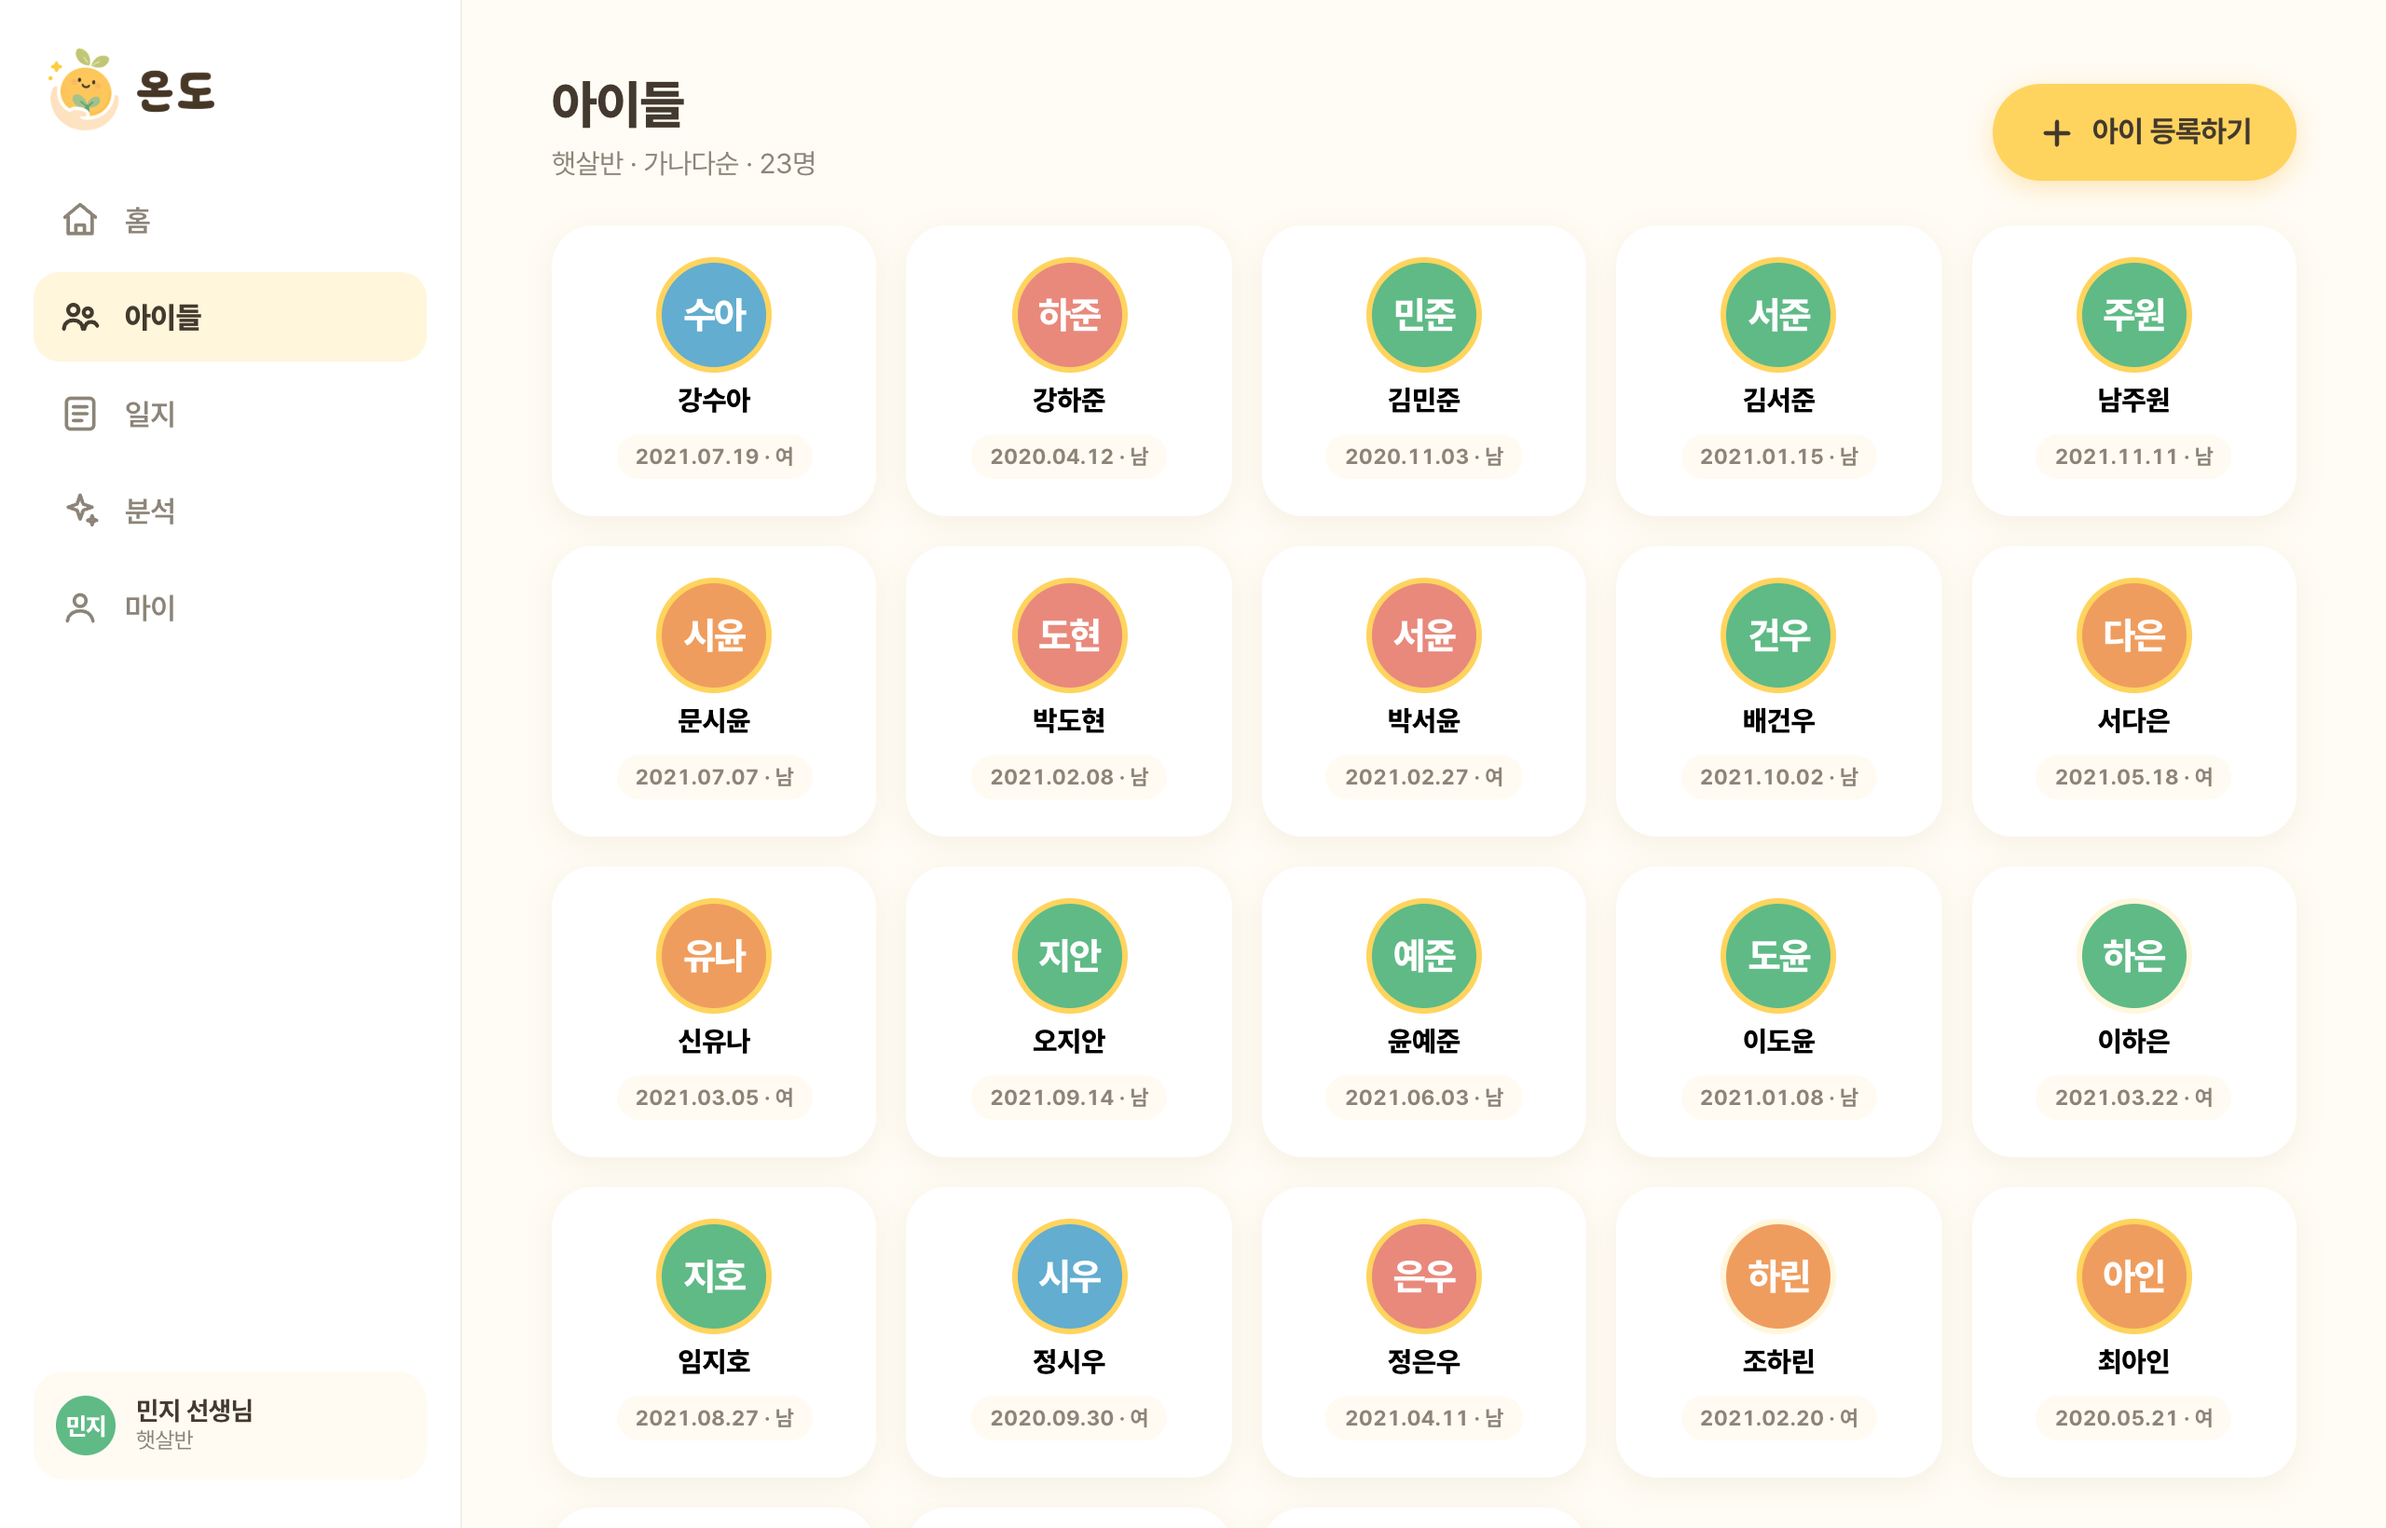
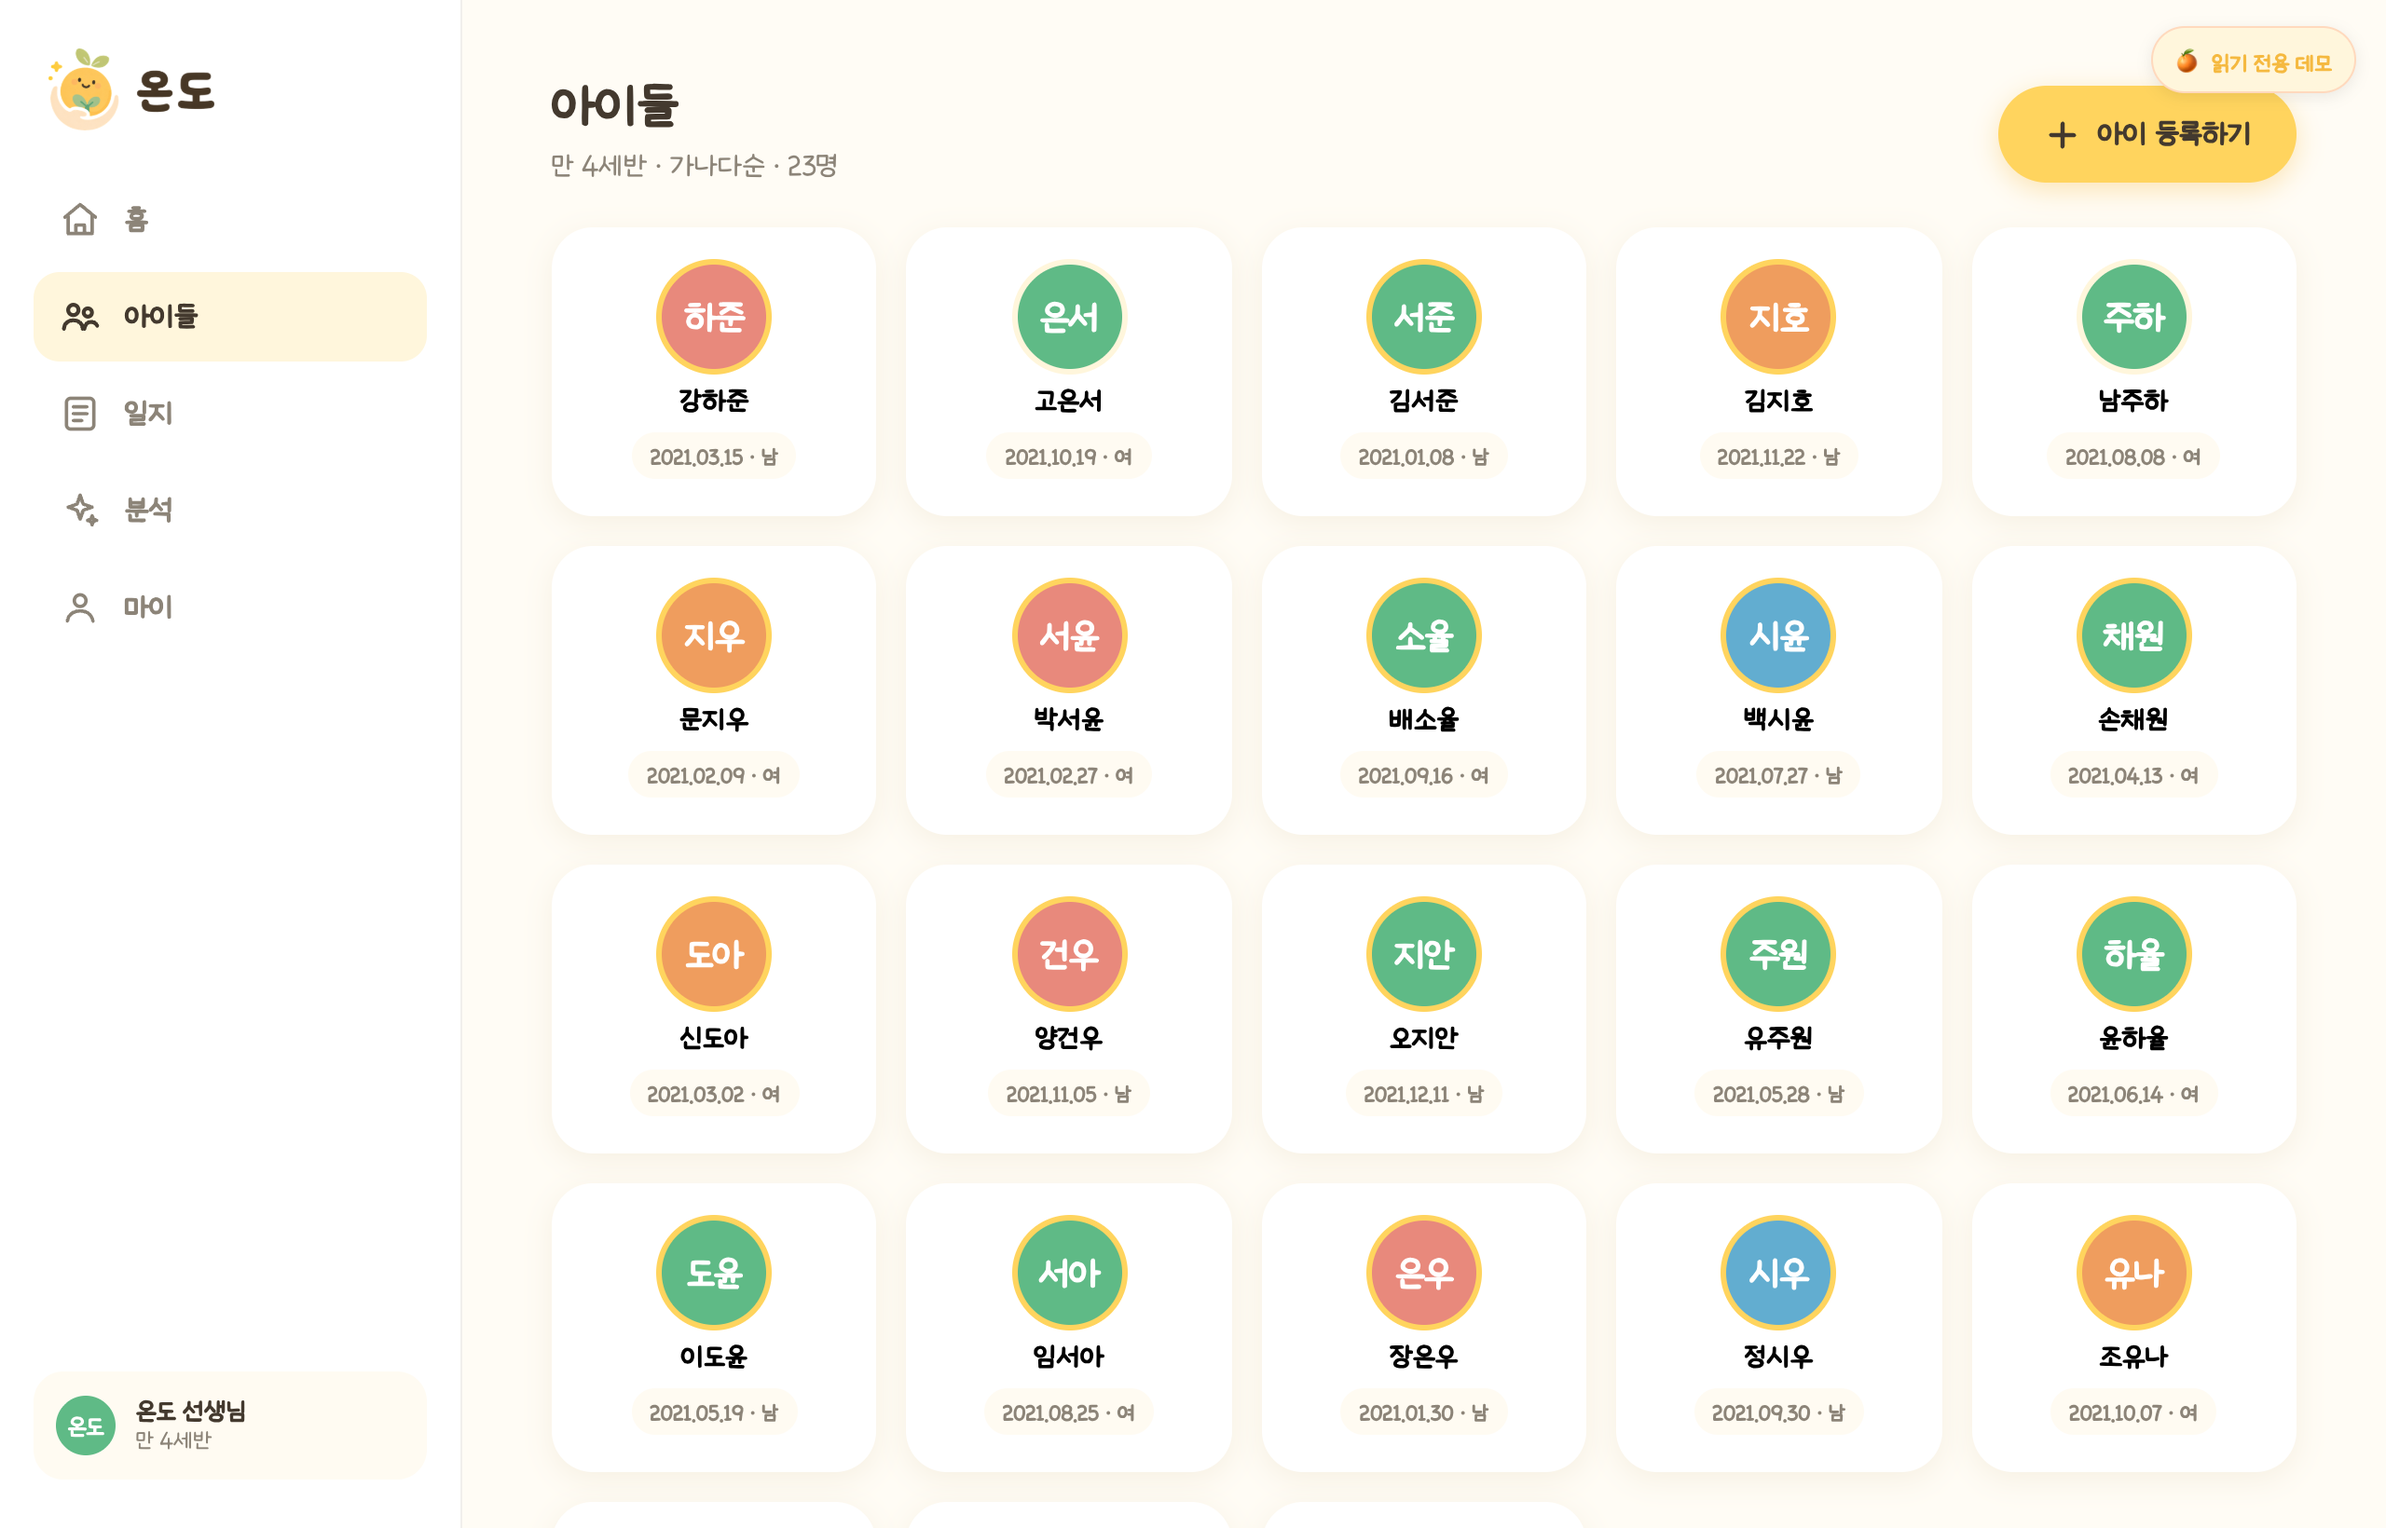
docs(readme): 배포 현황 최신화 + 데모 계정으로 실행 화면 재촬영
- 카카오 로그인·비밀번호 재설정·인트로, Cloud Run·Cloud SQL·Firebase Hosting
  실배포(라이브), gzip, 테스트 수(약 200개) 등 최근 변경 반영.
- 라이브 데모 링크 + 읽기 전용 데모 계정(demo@ondo.app) 안내.
- shoot.mjs 를 데모 계정으로 전환하고 AI 하루 일지 상세 캡처 추가 → 실행 화면
  전부 재촬영(라이브와 동일 화면).

diff --git a/README.md b/README.md
@@ -7,6 +7,8 @@
 짧은 **메모** 한 줄이면 충분해요.<br>
 아이별로 기록이 쌓이고, **AI**가 누리과정 기반 **하루 일지**와 **개인 관찰평가**를 대신 써 드립니다.
 
+**▶ 라이브 데모 · [ondo-prod.web.app](https://ondo-prod.web.app/intro)** — 가입 없이 **읽기 전용 데모 계정**(`demo@ondo.app` / `ondo-demo`)으로 바로 둘러보세요.
+
 </div>
 
 ---
@@ -31,6 +33,7 @@
 - **AI 하루 일지** — 오늘 메모를 모아 누리과정 5영역 일지 초안을 자동 생성 → 검토·수정·확정·재분석.
 - **개인 관찰평가** — 아이별 기록을 모아 상담·발달평가용 평가서를 작성(월말 자동 생성 포함).
 - **반·아이 관리** — 담당 반 선택·추가, 아이 등록·수정·숨김/복원, 프로필 사진(브라우저 1:1 크롭).
+- **로그인** — 이메일 회원가입 · **카카오 로그인** · 비밀번호 재설정(이메일 링크) · 로그인 상태 유지.
 - **어디서나** — 데스크톱·모바일 반응형. 교실에선 폰으로 기록하고, 정리는 PC로.
 
 > 🔒 AI에 보낼 때 아이 실명은 **비식별화**되고 분석 후 복원됩니다. 원본 기록은 그대로 안전하게 보존돼요.
@@ -53,17 +56,19 @@
 
 ## 📱 실행 화면
 
+> 아래는 모두 **읽기 전용 데모 계정**으로 로그인한 실제 화면이에요 — [라이브에서 바로 둘러보기](https://ondo-prod.web.app/intro) · `demo@ondo.app` / `ondo-demo`
+
 **데스크톱 (사이드바 레이아웃)**
 
-| 로그인 | 홈 | 아이 목록 | 아이 타임라인 |
+| 홈 | AI 하루 일지 | 아이 타임라인 | 아이 목록 |
 |:---:|:---:|:---:|:---:|
-| <img src="docs/screenshots/login-desktop.png" width="230"> | <img src="docs/screenshots/home-desktop.png" width="230"> | <img src="docs/screenshots/children-desktop.png" width="230"> | <img src="docs/screenshots/timeline-desktop.png" width="230"> |
+| <img src="docs/screenshots/home-desktop.png" width="230"> | <img src="docs/screenshots/journal-desktop.png" width="230"> | <img src="docs/screenshots/timeline-desktop.png" width="230"> | <img src="docs/screenshots/children-desktop.png" width="230"> |
 
 **모바일 (하단 탭 레이아웃)**
 
-| 홈 | 아이 목록 | 빠른 메모 | 아이 타임라인 |
+| 홈 | 아이 타임라인 | AI 하루 일지 | 빠른 메모 |
 |:---:|:---:|:---:|:---:|
-| <img src="docs/screenshots/home-mobile.png" width="150"> | <img src="docs/screenshots/children-mobile.png" width="150"> | <img src="docs/screenshots/memo-mobile.png" width="150"> | <img src="docs/screenshots/timeline-mobile.png" width="150"> |
+| <img src="docs/screenshots/home-mobile.png" width="150"> | <img src="docs/screenshots/timeline-mobile.png" width="150"> | <img src="docs/screenshots/journal-mobile.png" width="150"> | <img src="docs/screenshots/memo-mobile.png" width="150"> |
 
 ## ⚙ 기술 스택
 
@@ -71,10 +76,11 @@
 |------|------|
 | 백엔드 | Java 25 · Spring Boot 4 · Gradle · Spring Data JPA · Flyway |
 | DB | MySQL 8.4 |
-| 인증 | Spring Security(stateless) · JWT · BCrypt |
+| 인증 | Spring Security(stateless) · JWT · BCrypt · **카카오 OAuth** |
 | AI | OpenAI Chat Completions · structured outputs(strict) · 기본 모델 `gpt-5.4-nano` |
 | 프론트 | Vue 3(Composition API) · Vite · 반응형(사이드바 ↔ 하단탭) |
-| 인프라 | Docker · docker-compose · 프로덕션 nginx 정적 서빙 |
+| 인프라 | Docker · docker-compose · nginx(정적 서빙·gzip) |
+| 배포 | GCP Cloud Run(API) · Cloud SQL for MySQL · Firebase Hosting(프론트·`/api` 리라이트) |
 | 테스트 | JUnit 5 · Testcontainers(MySQL) |
 
 ## 🚀 빠르게 실행
@@ -87,6 +93,7 @@ curl localhost:8090/actuator/health # {"status":"UP"}
 ```
 
 - **바로 둘러보기(dev)**: 시드 계정 `teacher@ondo.dev` / `password1234` 로 로그인하면 만 4세반·아이 23명이 준비돼 있어요. (prod 프로파일은 시드 없이 회원가입으로 시작)
+- **읽기 전용 데모**: `DEMO_ENABLED=true` 면 `demo@ondo.app` / `ondo-demo` 계정과 시연 데이터(반·아이 23명·메모·AI 일지·관찰평가)가 멱등 주입되고, 이 계정의 변경 요청은 서버가 차단(`DEMO_READ_ONLY`)해요 — 라이브 데모가 그대로 보존됩니다.
 - 프론트 개발 서버: `cd frontend && npm install && npm run dev` → http://localhost:5273 (`/api` 는 :8090 으로 프록시)
 - 창 폭 **900px** 기준으로 데스크톱/모바일 레이아웃이 자동 전환됩니다.
 
@@ -132,10 +139,24 @@ cp .env.example .env     # 시크릿 채우기 (.env 는 커밋 금지)
 
 </details>
 
+## ☁ 배포
+
+**라이브: [ondo-prod.web.app](https://ondo-prod.web.app/intro)** (GCP 서울 리전 `asia-northeast3`)
+
+| 구성 | 서비스 |
+|------|--------|
+| 프론트(SPA) | **Firebase Hosting** — 정적 서빙 + `/api/**` → Cloud Run 리라이트 |
+| API | **Cloud Run** — 컨테이너 오토스케일(0→N), 시크릿은 런타임 env 주입 |
+| DB | **Cloud SQL for MySQL** — Cloud SQL 커넥터로 접속(프라이빗) |
+| 스키마 | Flyway 마이그레이션 자동 적용(`ddl-auto=validate`) |
+
+같은 컨테이너 이미지를 로컬(docker-compose)·클라우드(Cloud Run)에서 그대로 돌립니다. 실배포 절차는 런북 참고 — [GCP Cloud Run](docs/deploy-gcp-cloudrun-runbook.md) · [AWS(RDS+caddy)](docs/deploy-aws-runbook.md).
+
 ## 📚 더 알아보기
 
 - **기획 산출물** — [`docs/portfolio/`](docs/portfolio/) : 사용자 인터뷰 · As-Is/To-Be · User Flow & IA · 지표 설계
 - **구현 명세** — [`docs/specs/`](docs/specs/) : API · 데이터 모델 · 에러 코드 · AI 연동
+- **배포 런북** — [`docs/deploy-gcp-cloudrun-runbook.md`](docs/deploy-gcp-cloudrun-runbook.md) · [`docs/deploy-aws-runbook.md`](docs/deploy-aws-runbook.md)
 
 <details>
 <summary>저장소 구조</summary>
@@ -144,10 +165,11 @@ cp .env.example .env     # 시크릿 채우기 (.env 는 커밋 금지)
 ondo/
 ├── backend/     # Spring Boot + Java REST API
 │   └── src/main/java/com/ondo/
-│       ├── auth/       # 회원가입 · 로그인 · JWT
+│       ├── auth/       # 회원가입 · 로그인 · JWT · 비밀번호 재설정 · kakao(OAuth)
 │       ├── classroom/  # 담당 반 · 새 반 생성
 │       ├── child/      # 아이 등록·수정 · 보존형 삭제(숨김)·복원
 │       ├── memo/       # 메모 기록 · 타임라인 · 누리과정 영역
+│       ├── warmth/     # 관찰 온도(최근 2주 관찰 농도 · 잠시 접어두기)
 │       ├── journal/    # AI 하루 일지(생성·검토·확정·재분석)
 │       ├── report/     # 개인 관찰평가(수동 + 월말 자동 스케줄러)
 │       ├── photo/      # 프로필 이미지(아이·교사)
@@ -248,10 +270,10 @@ erDiagram
 | 단계 | 내용 | 상태 |
 |------|------|------|
 | Epic 1 | 골격 · 인증(JWT) · 반 선택 · 아이 등록·관리 | ✅ 완료 |
-| Epic 1+ | 회원가입 · 새 반 추가 · 아이 숨김/복원 · 프로필 사진 | ✅ 완료 |
-| Epic 2 | 메모 기록 · 타임라인 · 누리과정 영역 분류 | ✅ 완료 |
+| Epic 1+ | 회원가입 · 카카오 로그인 · 비밀번호 재설정 · 새 반 추가 · 아이 숨김/복원 · 프로필 사진 | ✅ 완료 |
+| Epic 2 | 메모 기록 · 타임라인 · 누리과정 영역 분류 · 관찰 온도 | ✅ 완료 |
 | Epic 3 | AI 하루 일지 (비식별화 → 분석 → 검증 · 재분석) | ✅ 완료 |
 | Epic 4 | 개인 관찰평가 (수동 + 월말 자동 스케줄러) | ✅ 완료 |
-| Epic 5 | 실배포 (prod 프로파일 · nginx 정적 서빙 · `deploy.sh`) | 🔜 진행 중 |
+| Epic 5 | 실배포 — Cloud Run · Cloud SQL · Firebase Hosting ([라이브](https://ondo-prod.web.app/intro)) | ✅ 완료 |
 
-전체 **130개 테스트 통과**(JUnit5 · Testcontainers). AI 일지·개인평가는 실제 OpenAI(`gpt-5.4-nano`)로 end-to-end 검증됨.
+전체 **200여 개 테스트 통과**(JUnit5 · Testcontainers). AI 일지·개인평가는 실제 OpenAI(`gpt-5.4-nano`)로 end-to-end 검증됨.
